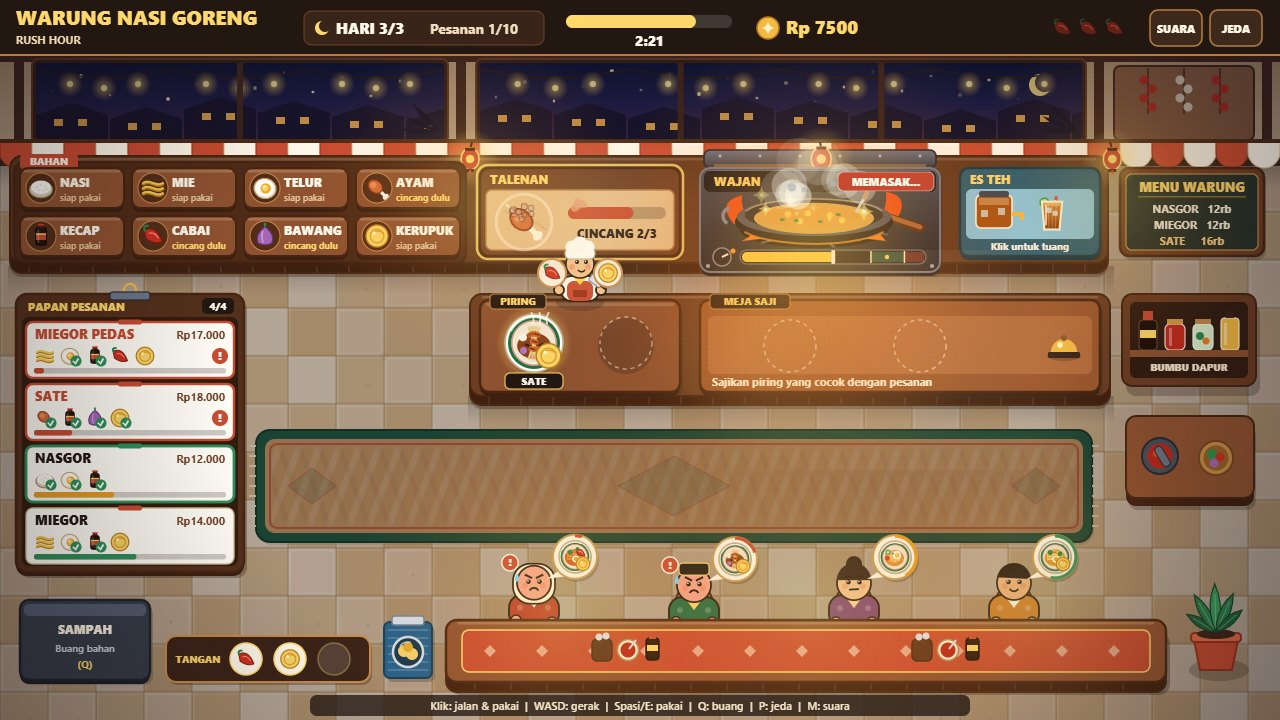
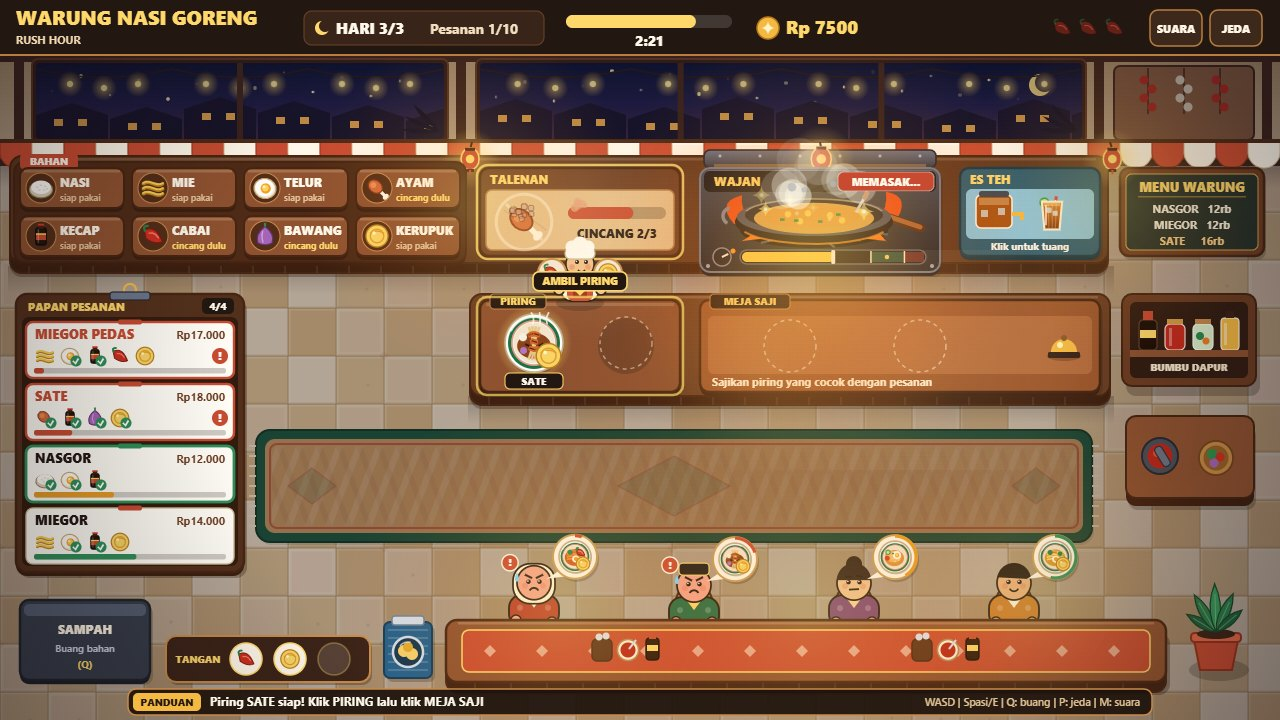
Add live interactive PANDUAN guidance bar and bouncing target pointers

Changed region(s): [[0.0938, 0.9472, 0.9062, 1.0], [0.375, 0.3667, 0.5312, 0.4278], [0.375, 0.5194, 0.5312, 0.55]]

diff --git a/game/src/render.js b/game/src/render.js
@@ -1236,6 +1236,226 @@ export function createRenderer(canvas) {
     text('JEDA', HUD_BUTTONS.pause.x + 26, HUD_BUTTONS.pause.y + 23, 11, '#fff6e4', 'center', 800);
   }
 
+  function computeNextHint(state) {
+    const wok = state.wok;
+    if (wok.burnt) {
+      return {
+        target: STATIONS.wajan,
+        action: 'BERSIHKAN',
+        text: 'Wajan gosong! Klik WAJAN untuk membersihkan lalu masak ulang',
+      };
+    }
+    if (wok.invalid) {
+      return {
+        target: STATIONS.wajan,
+        action: 'KOSONGKAN',
+        text: 'Campuran salah! Klik WAJAN untuk mengosongkan wajan',
+      };
+    }
+    if (wok.ready) {
+      if (state.hands.every(Boolean)) {
+        return {
+          target: STATIONS.trash,
+          action: 'BUANG (Q)',
+          text: 'Tangan penuh! Klik SAMPAH atau tekan Q dulu, lalu angkat WAJAN',
+        };
+      }
+      return {
+        target: STATIONS.wajan,
+        action: 'ANGKAT!',
+        text: 'Masakan matang! Klik WAJAN sekarang sebelum gosong',
+      };
+    }
+
+    const readyHand = state.hands.find(
+      (item) =>
+        item &&
+        ((item.kind === 'plate' &&
+          state.tickets.some((t) => t.dishId === item.dishId && t.extraKerupuk === item.kerupuk)) ||
+          (item.kind === 'drink' && state.tickets.some((t) => t.dishId === 'esteh'))),
+    );
+    if (readyHand) {
+      return {
+        target: STATIONS.saji,
+        action: 'SAJIKAN',
+        text: 'Pesanan siap di tangan! Klik MEJA SAJI untuk menyajikan ke pelanggan',
+      };
+    }
+
+    if (state.hands.some((item) => item && item.kind === 'cooked')) {
+      return {
+        target: STATIONS.piring,
+        action: 'TARUH',
+        text: 'Klik PIRING untuk menaruh masakan matang ke piring saji',
+      };
+    }
+
+    for (const plate of state.plates) {
+      if (!plate) continue;
+      if (state.tickets.some((t) => t.dishId === plate.dishId && t.extraKerupuk === plate.kerupuk)) {
+        return {
+          target: STATIONS.piring,
+          action: 'AMBIL PIRING',
+          text: `Piring ${DISHES[plate.dishId].short} siap! Klik PIRING lalu klik MEJA SAJI`,
+        };
+      }
+      if (state.tickets.some((t) => t.dishId === plate.dishId && t.extraKerupuk && !plate.kerupuk)) {
+        if (state.hands.some((h) => h && h.kind === 'ing' && h.id === 'kerupuk')) {
+          return {
+            target: STATIONS.piring,
+            action: 'TAMBAH',
+            text: 'Klik PIRING untuk menambahkan KERUPUK ke piring pesanan',
+          };
+        }
+        return {
+          target: STATIONS.bins.find((b) => b.id === 'kerupuk'),
+          action: 'KERUPUK',
+          text: 'Pesanan ini pakai kerupuk! Ambil KERUPUK lalu klik PIRING',
+        };
+      }
+    }
+
+    if (state.board.item) {
+      if (state.board.item.kind === 'ing') {
+        const ingName = INGREDIENTS[state.board.item.id].name;
+        return {
+          target: STATIONS.talenan,
+          action: `CINCANG ${state.board.chops}/${CHOPS_NEEDED}`,
+          text: `Klik TALENAN (${state.board.chops}/${CHOPS_NEEDED}) untuk mencincang ${ingName}`,
+        };
+      }
+      return {
+        target: STATIONS.talenan,
+        action: 'AMBIL',
+        text: 'Selesai dicincang! Klik TALENAN untuk mengambil, lalu masukkan ke WAJAN',
+      };
+    }
+
+    const rawChop = state.hands.find((h) => h && h.kind === 'ing' && INGREDIENTS[h.id].chop);
+    if (rawChop) {
+      return {
+        target: STATIONS.talenan,
+        action: 'CINCANG 3x',
+        text: `${INGREDIENTS[rawChop.id].name} harus dicincang dulu! Klik TALENAN lalu klik 3x`,
+      };
+    }
+
+    const wokReadyIng = state.hands.find(
+      (h) => h && (h.kind === 'chopped' || (h.kind === 'ing' && !INGREDIENTS[h.id].chop && h.id !== 'kerupuk')),
+    );
+    if (wokReadyIng && !wok.cooking) {
+      return {
+        target: STATIONS.wajan,
+        action: 'MASUKKAN',
+        text: `Klik WAJAN untuk memasukkan ${INGREDIENTS[baseId(wokReadyIng.id)].name} ke wajan`,
+      };
+    }
+
+    let targetTicket = null;
+    if (wok.contents.length > 0) {
+      targetTicket = state.tickets.find(
+        (t) => !DISHES[t.dishId].drink && wok.contents.every((c) => DISHES[t.dishId].wok.includes(c)),
+      );
+    }
+    if (!targetTicket) targetTicket = state.tickets[0] || null;
+    if (!targetTicket) {
+      return { target: null, action: '', text: 'Tunggu pesanan pelanggan muncul di PAPAN PESANAN...' };
+    }
+
+    const dish = DISHES[targetTicket.dishId];
+    if (dish.drink) {
+      return {
+        target: STATIONS.dispenser,
+        action: state.dispenser.pouring ? 'MENUANG...' : 'TUANG',
+        text: state.dispenser.pouring
+          ? 'Menunggu ES TEH selesai dituang ke tangan...'
+          : 'Pesanan ES TEH: klik dispenser ES TEH, lalu klik MEJA SAJI',
+      };
+    }
+
+    if (wok.cooking) {
+      return {
+        target: STATIONS.wajan,
+        action: 'TUNGGU',
+        text: `Menunggu ${DISHES[wok.dishId].short} matang di WAJAN, angkat di zona hijau!`,
+      };
+    }
+
+    const nextReq = dish.wok.find((id) => !wok.contents.includes(id)) || dish.wok[0];
+    const reqBase = baseId(nextReq);
+    const bin = STATIONS.bins.find((b) => b.id === reqBase);
+    return {
+      target: bin,
+      action: `AMBIL ${INGREDIENTS[reqBase].name}`,
+      text: `Pesanan ${dish.short}: ambil ${INGREDIENTS[reqBase].name}${
+        INGREDIENTS[reqBase].chop ? ', lalu cincang 3x di TALENAN' : ', lalu masukkan ke WAJAN'
+      }`,
+    };
+  }
+
+  function drawGuidance(state) {
+    const hint = computeNextHint(state);
+
+    // Pulsing target highlight + floating pill pointer above the next interactive station.
+    if (hint.target && hint.action) {
+      const st = hint.target;
+      const pulse = 0.52 + 0.35 * Math.sin(state.time * 6);
+      context.save();
+      roundRect(context, st.x - 3, st.y - 3, st.w + 6, st.h + 6, 10);
+      context.strokeStyle = `rgba(255, 224, 102, ${pulse})`;
+      context.lineWidth = 2.5;
+      context.stroke();
+
+      const bob = Math.sin(state.time * 5) * 2;
+      const cx = Math.max(66, Math.min(VIEW.width - 66, st.x + st.w / 2));
+      const tipY = st.y - 6 + bob;
+      context.font = '800 10.5px system-ui, -apple-system, "Segoe UI", sans-serif';
+      const pw = Math.max(66, Math.ceil(context.measureText(hint.action).width + 18));
+      const py = tipY - 24;
+
+      roundRect(context, cx - pw / 2, py, pw, 19, 6);
+      context.fillStyle = '#231711';
+      context.fill();
+      context.strokeStyle = PALETTE.goldBright;
+      context.lineWidth = 1.6;
+      context.stroke();
+
+      // Downward pointer arrow.
+      context.fillStyle = PALETTE.goldBright;
+      context.beginPath();
+      context.moveTo(cx - 5, py + 19);
+      context.lineTo(cx + 5, py + 19);
+      context.lineTo(cx, tipY);
+      context.closePath();
+      context.fill();
+
+      text(hint.action, cx, py + 13.5, 10.5, PALETTE.goldBright, 'center', 800);
+      context.restore();
+    }
+
+    // Live bottom PANDUAN instruction bar with compact key legend on the right.
+    const bx = 128;
+    const by = 689;
+    const bw = 1024;
+    const bh = 26;
+    context.save();
+    roundRect(context, bx, by, bw, bh, 8);
+    context.fillStyle = 'rgba(28, 17, 11, 0.92)';
+    context.fill();
+    context.strokeStyle = '#c88b4b';
+    context.lineWidth = 1.5;
+    context.stroke();
+
+    roundRect(context, bx + 5, by + 4, 68, 18, 5);
+    context.fillStyle = PALETTE.gold;
+    context.fill();
+    text('PANDUAN', bx + 39, by + 16.5, 10, PALETTE.ink, 'center', 900);
+
+    text(hint.text, bx + 82, by + 17, 12, '#fff9ec', 'left', 700);
+    text('WASD | Spasi/E | Q: buang | P: jeda | M: suara', bx + bw - 12, by + 17, 10.5, '#dfc092', 'right', 600);
+    context.restore();
+  }
+
   function draw(state, screen, best, muted) {
     context.setTransform(1, 0, 0, 1, 0, 0);
     context.fillStyle = PALETTE.backdrop;
@@ -1266,19 +1486,23 @@ export function createRenderer(canvas) {
     drawWajanStatusOverlay(state);
     drawHUD(state, muted);
 
-    // Subtle dark-teak bottom controls bar.
-    roundRect(context, 310, 695, 660, 21, 7);
-    context.fillStyle = 'rgba(35, 23, 17, 0.78)';
-    context.fill();
-    text(
-      'Klik: jalan & pakai  |  WASD: gerak  |  Spasi/E: pakai  |  Q: buang  |  P: jeda  |  M: suara',
-      640,
-      710,
-      11,
-      '#f6e7cb',
-      'center',
-      600,
-    );
+    if (screen === SCREEN_PLAY) {
+      drawGuidance(state);
+    } else {
+      // Subtle dark-teak bottom controls bar on menus/modals.
+      roundRect(context, 310, 695, 660, 21, 7);
+      context.fillStyle = 'rgba(35, 23, 17, 0.78)';
+      context.fill();
+      text(
+        'Klik: jalan & pakai  |  WASD: gerak  |  Spasi/E: pakai  |  Q: buang  |  P: jeda  |  M: suara',
+        640,
+        710,
+        11,
+        '#f6e7cb',
+        'center',
+        600,
+      );
+    }
 
     const displayBest = Math.max(best, state.coins);
     if (screen === SCREEN_TITLE) {
